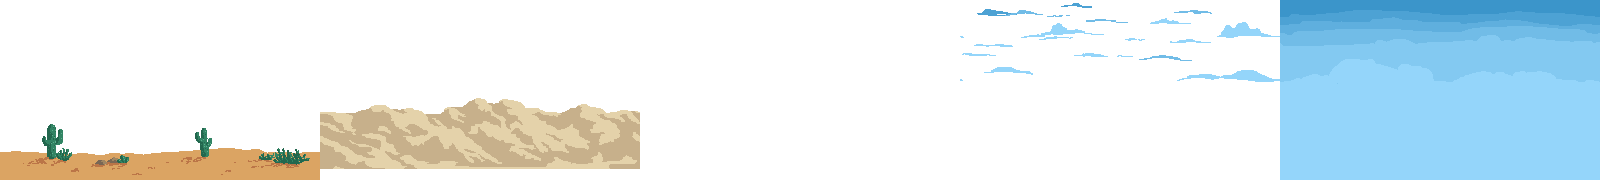
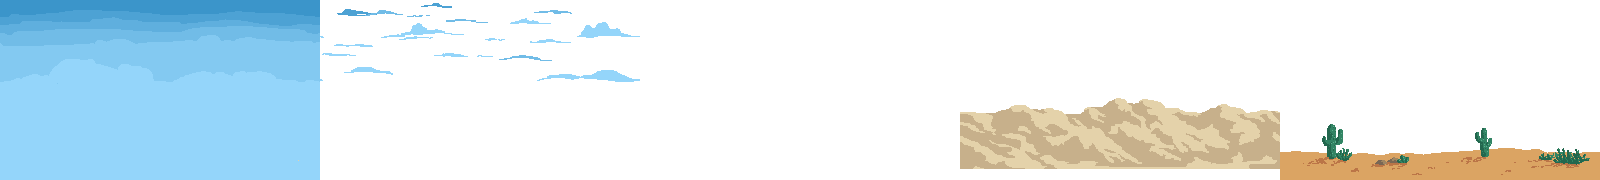
Update background atlas cols and parallax order
Add a new background frame/column and adjust parallax layer ordering/speeds. Updated binary assets (Aseprite and atlas PNG) and config to cols=5. Change parallax draw loop to iterate forward and replace the speed multipliers in level initialization to match the new layer order and motion behavior.

diff --git a/gfx/parallax.go b/gfx/parallax.go
@@ -21,7 +21,7 @@ func (p *Parallax) Update() {
 }
 
 func (p *Parallax) Draw(screen *eb.Image, x, y float64, op *eb.DrawImageOptions) {
-	for i := len(p.layers.Frames) - 1; i >= 0; i-- { // draw from back to front
+	for i := range p.layers.Frames {
 		shiftSpeed := p.speedMultipliers[i]
 		layerOffset := x * shiftSpeed
 		frameWidth := float64(p.layers.FrameWidth)

diff --git a/level.go b/level.go
@@ -19,7 +19,7 @@ func NewLevel() Level {
 	if err != nil {
 		log.Fatal("Failed to load background atlas.")
 	}
-	parallax := gfx.NewParallax(backAtlas, []float64{0.3, 0.7, 0.8, 0.9, 0.95})
+	parallax := gfx.NewParallax(backAtlas, []float64{0.99, 0.95, 0.9, 0.8, 0.4})
 	return Level{
 		background: parallax,
 		layers:     []Layer{},
